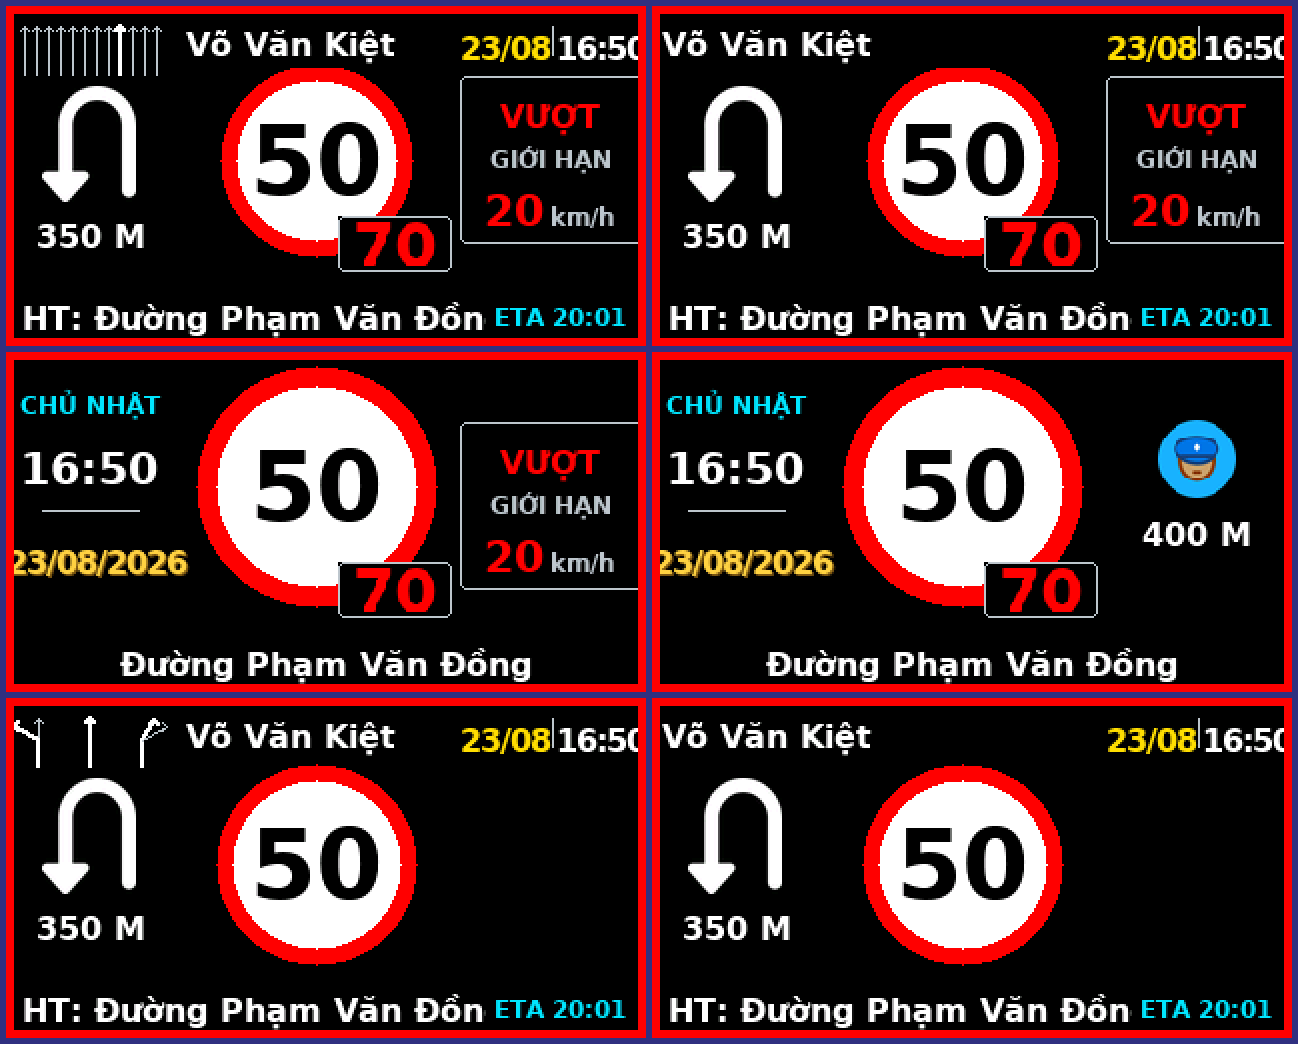
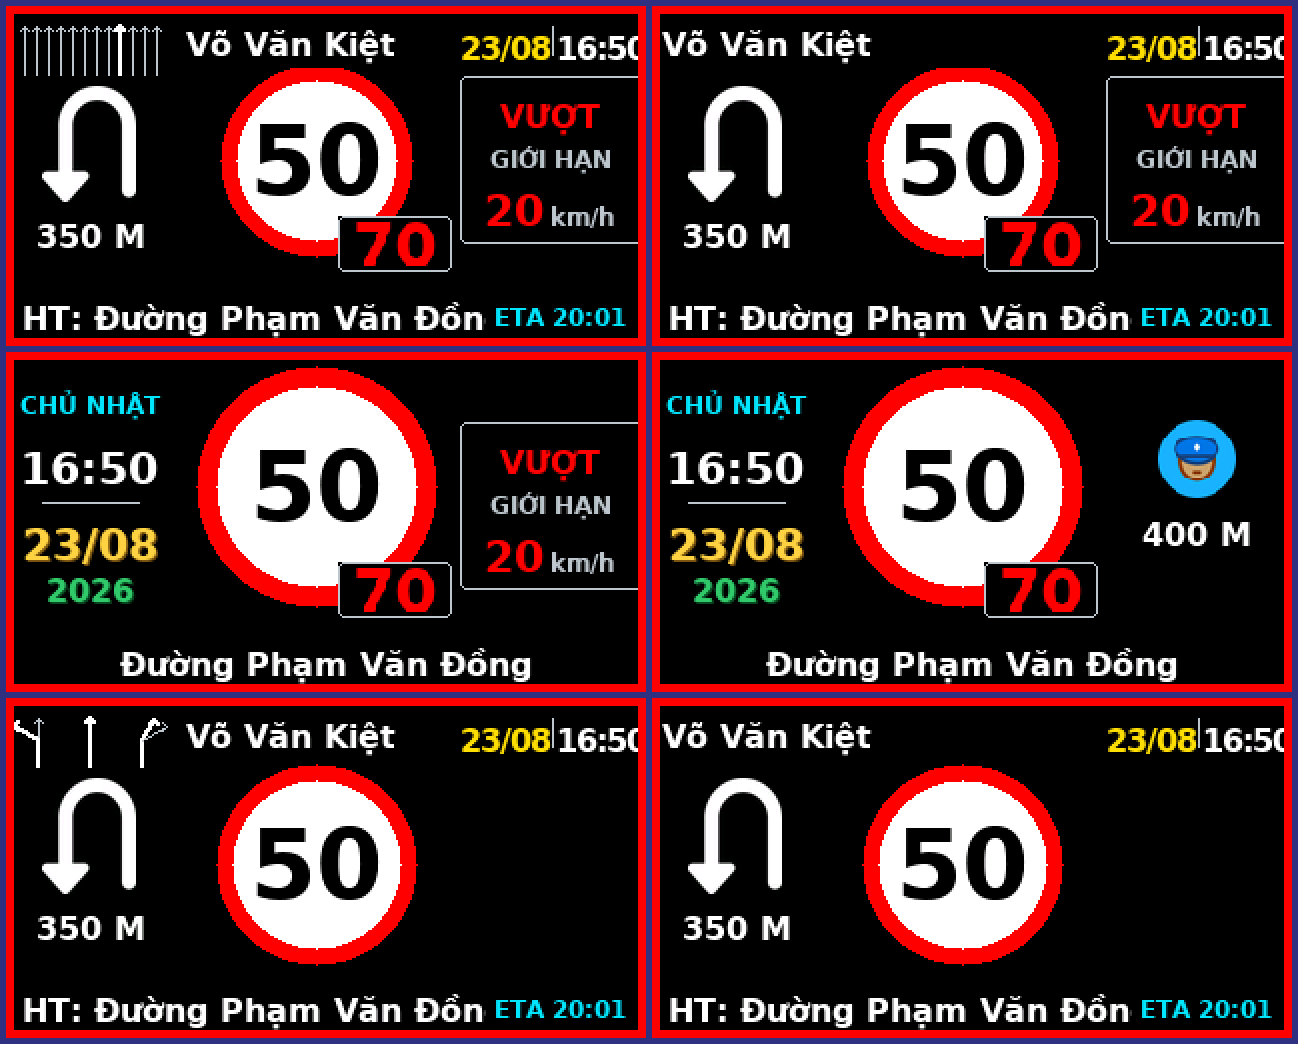
feat(display): split the free-drive date over two lines and make the year green
dd/mm is drawn large in gold and the year below it in green (with a dark shadow), centred in
the left column. Preview images are regenerated.

Changed region(s): [[0.0, 0.4598, 0.1541, 0.5824], [0.4931, 0.4598, 0.6471, 0.5824]]

diff --git a/waze-hud/main/display/hud_renderer.cpp b/waze-hud/main/display/hud_renderer.cpp
@@ -1137,17 +1137,20 @@ void HudRenderer::renderMainCluster(Canvas &canvas, const HudState &state,
             const int year = std::clamp(tmVal.tm_year + 1900, 2000, 2099);
             const int month = std::clamp(tmVal.tm_mon + 1, 1, 12);
             const int mday = std::clamp(tmVal.tm_mday, 1, 31);
-            char dateStr[32];
-            std::snprintf(dateStr, sizeof(dateStr), "%02d/%02d/%04d", mday, month, year);
+            char dayMonthStr[8];
+            char yearStr[8];
+            std::snprintf(dayMonthStr, sizeof(dayMonthStr), "%02d/%02d", mday, month);
+            std::snprintf(yearStr, sizeof(yearStr), "%04d", year);
 
             canvas.fontText(0, 12, dayStr, assets::kTextSmall, colors::Cyan, 84, true);
             canvas.fontText(0, 36, timeStr, assets::kTextLarge, colors::White, 84, true);
-            canvas.line(18, 74, 66, 74, colors::Muted, 1);
-            // Full date in metallic gold: bright face over a darker 1 px shadow. The medium
-            // font is 100 px wide; with 1 px tighter spacing it is 90 px, which still clears
-            // the speed sign (its left edge is x >= 99 at this height).
-            drawTightText(canvas, 1, 89, dateStr, assets::kTextMedium, colors::GoldShadow);
-            drawTightText(canvas, 0, 88, dateStr, assets::kTextMedium, colors::Gold);
+            canvas.line(18, 70, 66, 70, colors::Muted, 1);
+            // Date on two centred lines: dd/mm in metallic gold, the year in green, each a bright face over
+            // a darker 1 px shadow. Two lines fit the 84 px column without cramping or clipping.
+            canvas.fontText(1, 75, dayMonthStr, assets::kTextLarge, colors::GoldShadow, 84, true);
+            canvas.fontText(0, 74, dayMonthStr, assets::kTextLarge, colors::Gold, 84, true);
+            canvas.fontText(1, 103, yearStr, assets::kTextMedium, colors::GreenShadow, 84, true);
+            canvas.fontText(0, 102, yearStr, assets::kTextMedium, colors::Green, 84, true);
         } else {
             canvas.fontText(4, 16, "CHẠY", assets::kTextSmall, colors::Muted, 77, true);
             canvas.fontText(4, 34, "TỰ DO", assets::kTextMedium, colors::Green, 77, true);

diff --git a/waze-hud/main/display/colors.h b/waze-hud/main/display/colors.h
@@ -23,5 +23,6 @@ constexpr uint16_t Cyan = rgb565(0, 229, 255);
 constexpr uint16_t Yellow = rgb565(255, 221, 0);
 constexpr uint16_t Gold = rgb565(255, 208, 64);
 constexpr uint16_t GoldShadow = rgb565(120, 86, 16);
+constexpr uint16_t GreenShadow = rgb565(14, 72, 38);
 
 }  // namespace waze_hud::colors
